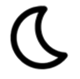
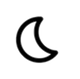
Cleanup of disabled files. Redid moon.

Changed region(s): [[0.125, 0.0506, 0.85, 0.8861]]

diff --git a/public/style.css b/public/style.css
@@ -55,7 +55,7 @@ ul {
 }
 
 
-/* Bottom container, in the right box */
+/* Bottom container, in the left box */
 .bottom-box {
   display: block;
   position : absolute;
